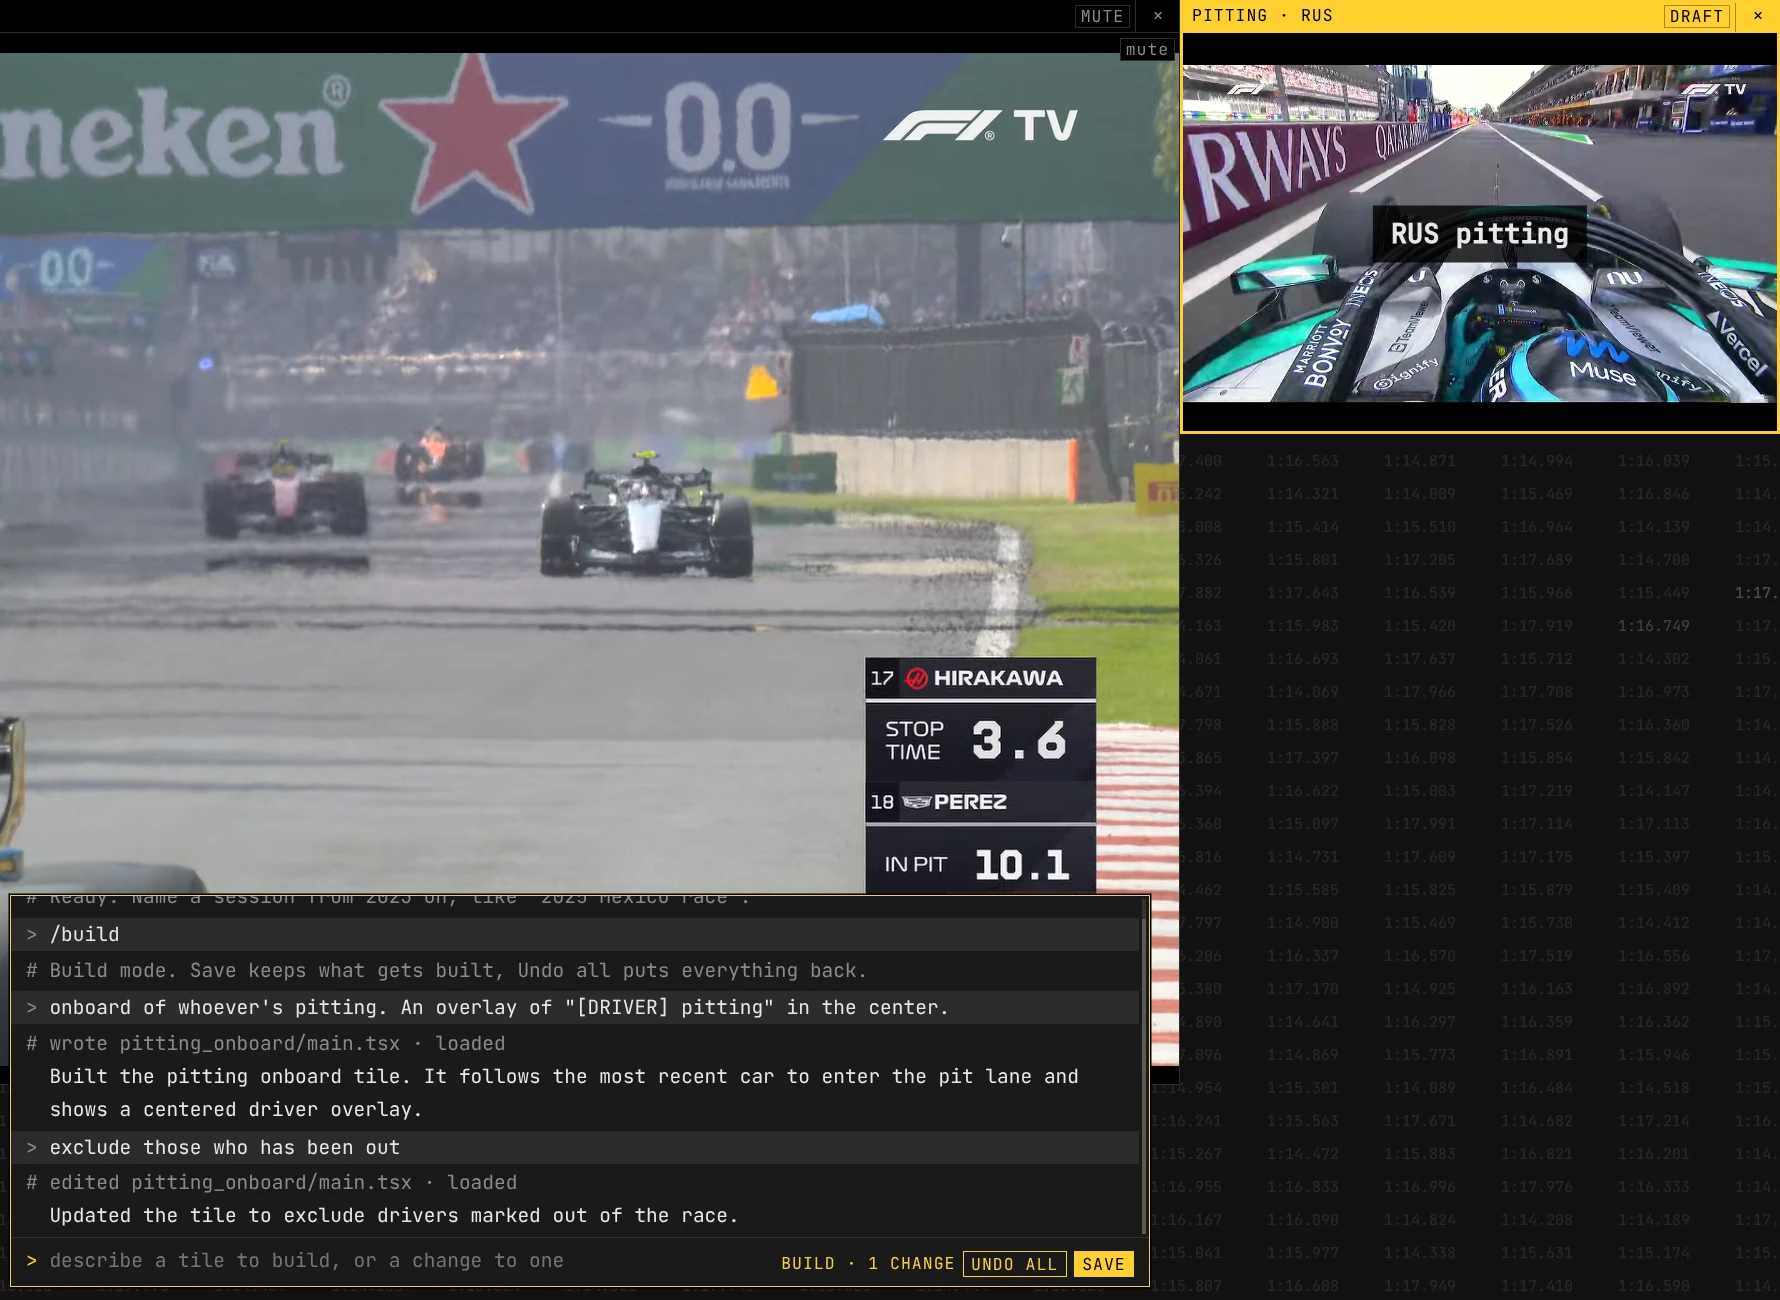
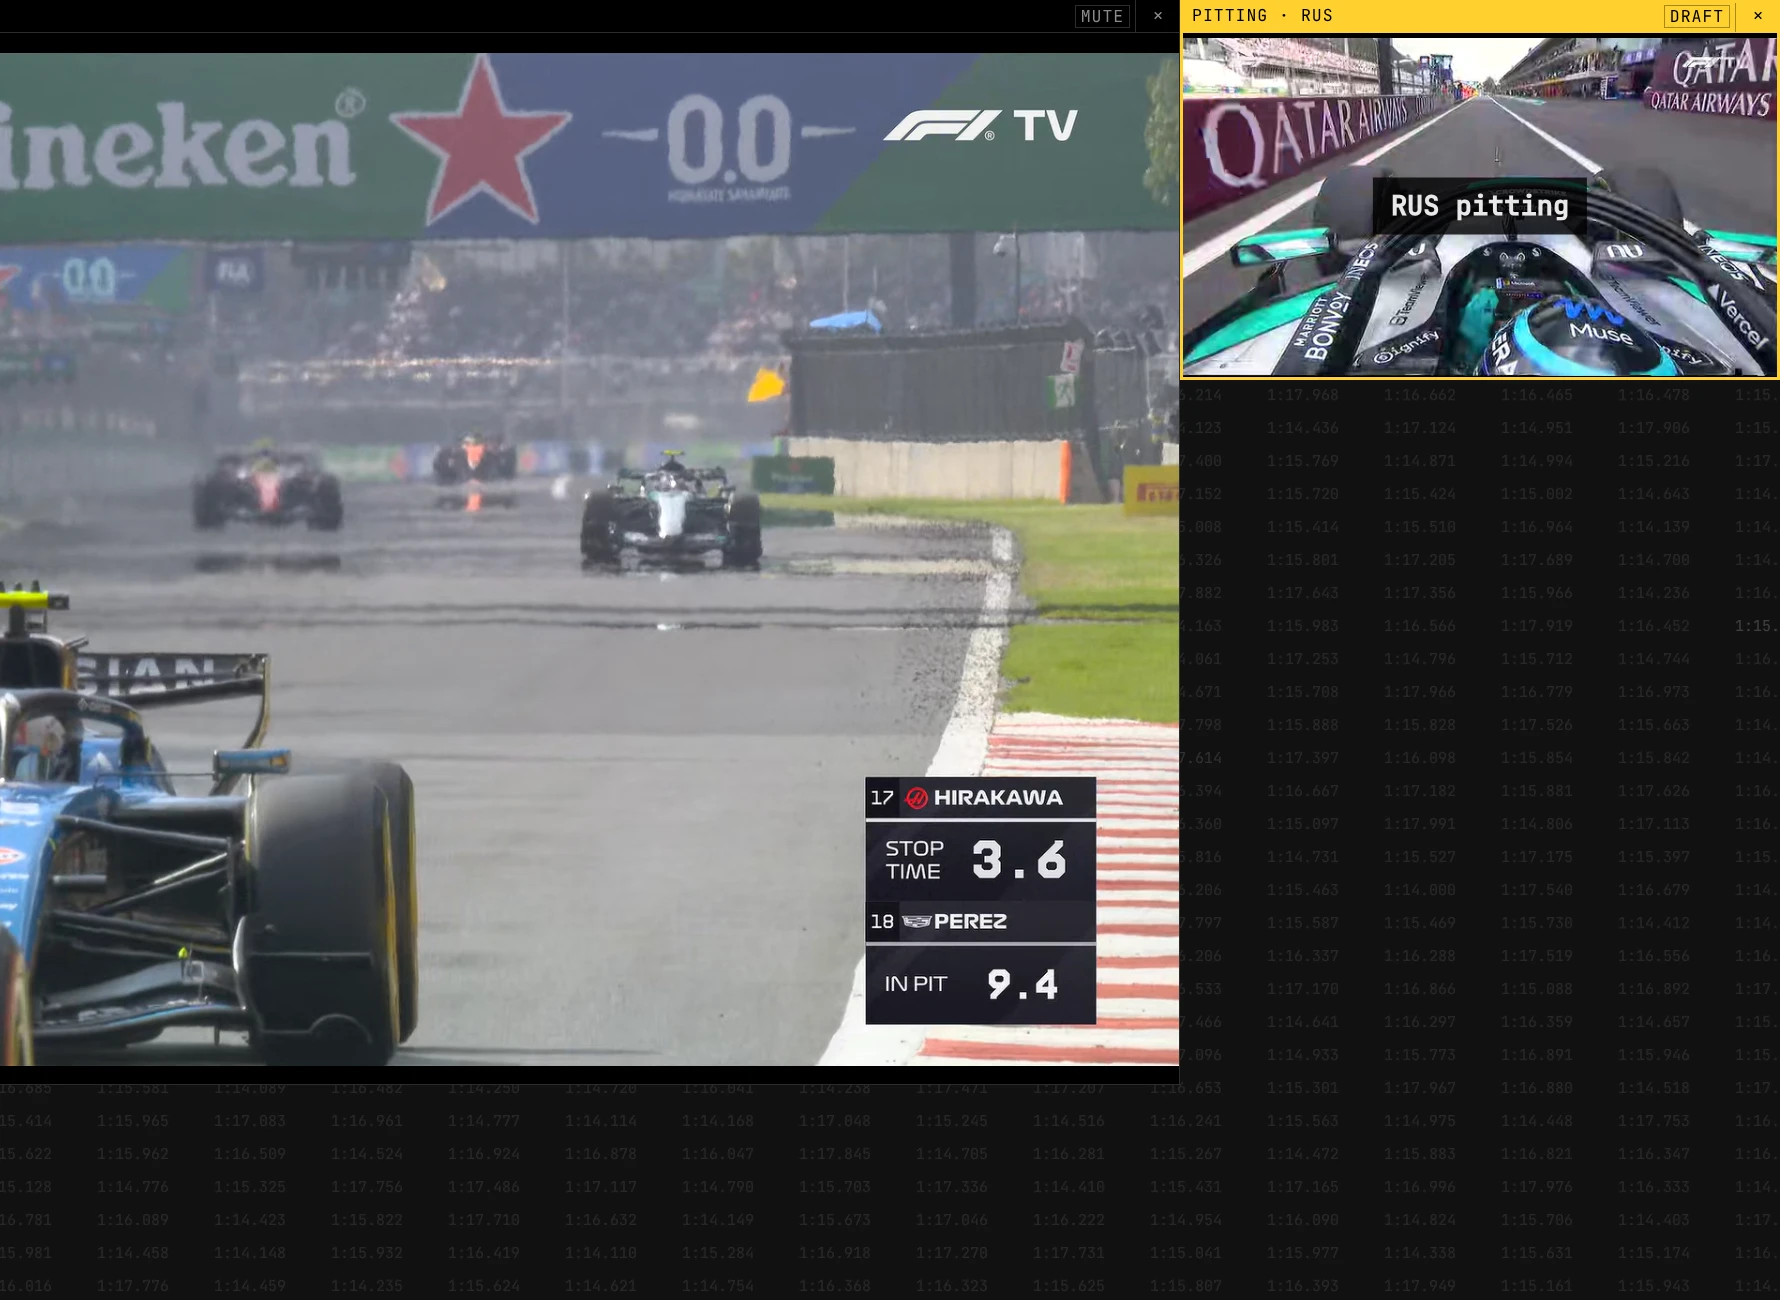
Show the build draft with a sharp palette, and drop the Save frame
The Build section's picture is now shot 3b, cropped as before to the draft tile, with the build palette drawn by the
page over its left side, where the app drew it, so its text is sharp. It goes under the picture when that's too
narrow to read it. The crossfade to the saved tile is gone, since it wasn't clear what changed.

diff --git a/site/src/assets/shots/hero/SHOTS.md b/site/src/assets/shots/hero/SHOTS.md
@@ -11,7 +11,7 @@ Page slots:
 
 - [x] **H1 · hero.** The page rotates five, each after its prompt is typed: shots 8b, 1, 3b, 5b and 2. They're the ones with the palette closed, since the page types the prompt itself.
 - [x] **M1 · spoiler check, then the jump.** Shots 6d and 6e, cropped to 16:9 with the seek bar. The section plays them as screens: the race on lap 22 (6d), dimmed while the prompt types and the spoiler check is answered, then Verstappen on Hamilton on lap 37 (6e), then a beat of black before it starts over. The palette between them is drawn by the page, so shots 6a, 6b and 6c aren't used.
-- [x] **B1 · build draft, then Save.** Shots 3 and 4.
+- [x] **B1 · build draft.** Shot 3b, cropped to the draft tile, with the build palette drawn by the page over its left side so the text is sharp. The Save frame (shot 4) isn't used.
 - [x] **S1 · suggestion strip with live previews.** Shot 7.
 - [x] **X1 · point at anything.** [x1-mention.png](https://github.com/natheihei/oh-my-f1-viewer/blob/assets/landing-shots/x1-mention.png?raw=true). Asked as `how is @Ferrari doing against @Mercedes on the @gap` instead of `how is HAM vs @Ferrari`, since HAM drives for Ferrari in 2026, and only a tile tag lights a tile.
 - [ ] **X3 · live races.** Waits for a live weekend.
